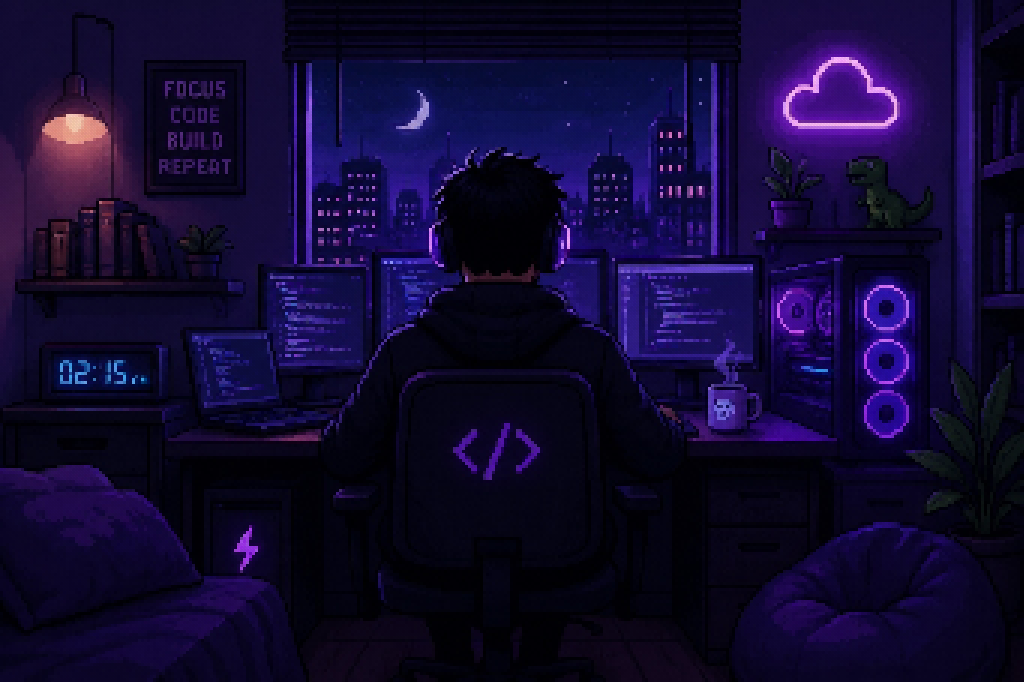
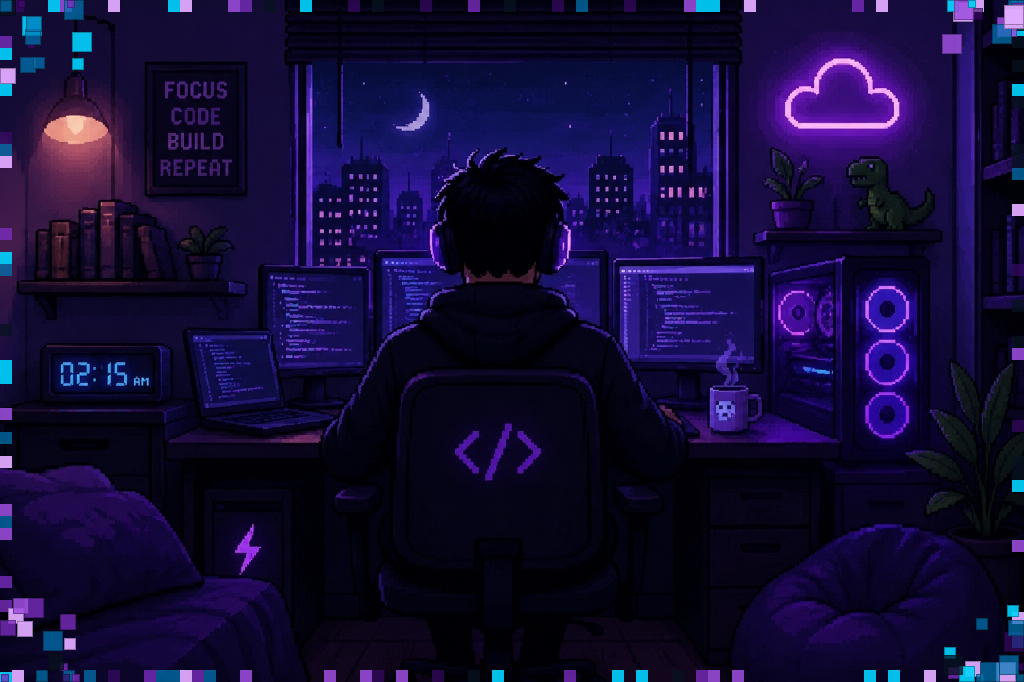
feat: render crystal-clear photo with cyberpunk digital pixel block borders

diff --git a/README.md b/README.md
@@ -19,7 +19,7 @@
 <!-- HERO / NIGHT CODER BATTLESTATION                       -->
 <!-- ======================================================= -->
 <div align="center">
-  <img src="https://raw.githubusercontent.com/saishparkar95-jpg/saishparkar95-jpg/main/assets/dev-night-coder.jpg" width="750" alt="Saish Parkar - Night Developer Battlestation" style="border-radius: 10px;" />
+  <img src="https://raw.githubusercontent.com/saishparkar95-jpg/saishparkar95-jpg/main/assets/dev-night-coder-block.png" width="750" alt="Saish Parkar - Night Developer Battlestation" style="border-radius: 10px;" />
 </div>
 
 <br />
